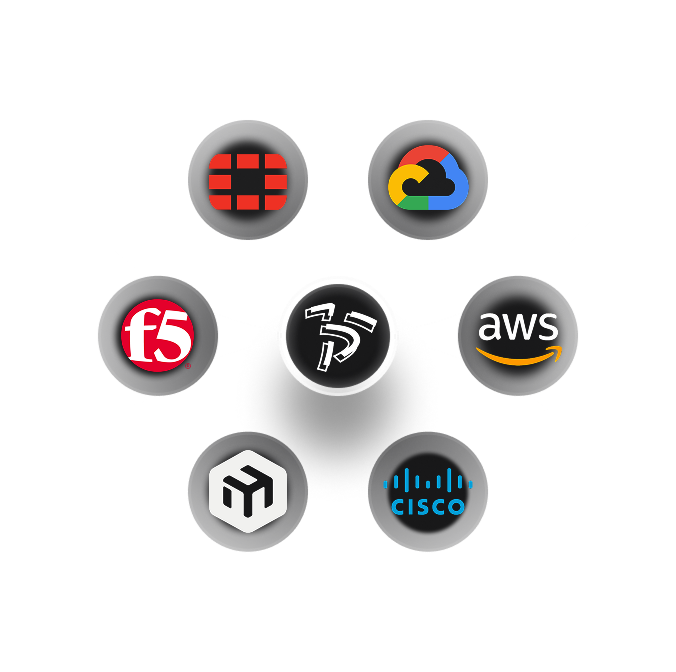
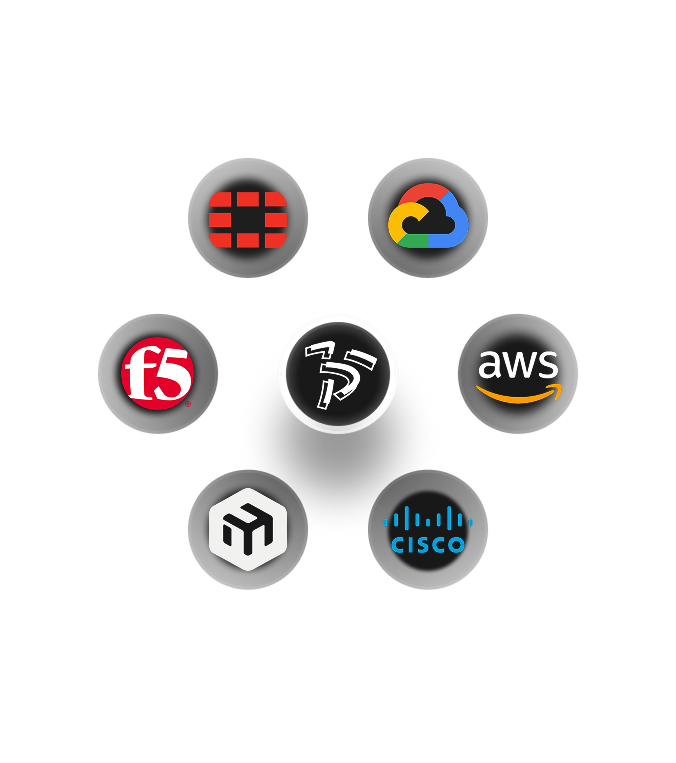
Update

diff --git a/styles.css b/styles.css
@@ -171,9 +171,92 @@ img {
     border-radius: 10px;
 }
 
-/* Cards Section */
+/* Cards Section - Optimized */
 .cards-section {
-    padding: 60px 0;
+    padding: 80px 0;
+}
+
+.cards-grid {
+    display: grid;
+    grid-template-columns: repeat(3, 1fr);
+    gap: 20px;
+}
+
+.card {
+    background-color: var(--bg-secondary);
+    border-radius: 9px;
+    overflow: hidden;
+    height: 100%;
+    display: flex;
+    flex-direction: column;
+}
+
+.card-large {
+    grid-row: span 2;
+}
+
+.card-wide {
+    grid-column: span 2;
+}
+
+/* Fix for card images */
+.card-image {
+    width: 100%;
+    height: 270px;
+    overflow: hidden;
+}
+
+/* Make sure images fill their containers properly */
+.card-image img {
+    width: 100%;
+    height: 100%;
+    object-fit: cover;
+}
+
+/* Fix for vendor logos container */
+.vendor-logos {
+    display: flex;
+    flex-wrap: wrap;
+    justify-content: center;
+    align-items: center;
+    gap: 20px;
+    padding: 20px;
+    height: 100%;
+    width: 100%;
+}
+
+/* Fix for individual vendor logo */
+.vendor-logo {
+    width: auto;
+    height: auto;
+    max-width: 100%;
+    max-height: 230px;
+    object-fit: contain;
+}
+
+.card-content {
+    padding: 20px;
+    flex-grow: 1;
+    display: flex;
+    flex-direction: column;
+}
+
+.card h3 {
+    font-size: 20px;
+    font-weight: 600;
+    margin-bottom: 15px;
+}
+
+.card p {
+    font-size: 14px;
+    line-height: 1.6;
+    font-weight: 400;
+    color: var(--text-primary);
+}
+
+/* Cards Section - Full Image Optimization */
+.cards-section {
+    padding: 80px 0;
 }
 
 .cards-grid {
@@ -202,30 +285,37 @@ img {
 .card-image {
     width: 100%;
     height: 270px;
+    position: relative;
     overflow: hidden;
     display: flex;
     justify-content: center;
     align-items: center;
+    background-color: var(--bg-tertiary);
 }
 
 .card-image img {
     width: 100%;
     height: 100%;
-    object-fit: cover;
+    object-fit: cover; 
+    object-position: center; 
 }
 
 .vendor-logos {
     display: flex;
     flex-wrap: wrap;
     justify-content: center;
-    gap: 20px;
-    padding: 20px;
+    align-items: center;
+    width: 100%;
+    height: 100%;
+    padding: 10px;
 }
 
 .vendor-logo {
-    width: 60px;
-    height: 60px;
+    width: 100%;
+    height: auto;
+    max-height: 250px;
     object-fit: contain;
+    object-position: center;
 }
 
 .card-content {
@@ -242,7 +332,8 @@ img {
 }
 
 .card p {
-    font-size: 12px;
+    font-size: 14px;
+    line-height: 1.6;
     font-weight: 400;
     color: var(--text-primary);
 }
@@ -441,19 +532,15 @@ img {
     object-fit: cover;
 }
 
-/* Contact Section */
+/* Contact Section - Optimized */
 .contact-section {
-    padding: 60px 0;
+    padding: 80px 0;
     background-color: var(--bg-primary);
-    display: flex;
-    justify-content: center;
-    align-items: center;
 }
-
 
 .contact-form-container {
     max-width: 1164px;
-    width: 100%; /* Tambahkan ini agar bisa menyesuaikan ukuran kontainer */
+    width: 100%;
     margin: 0 auto;
     border-radius: 27px;
     overflow: hidden;
@@ -461,13 +548,12 @@ img {
     box-shadow: 0 10px 30px rgba(0, 0, 0, 0.2);
 }
 
-
 .form-header {
     background: linear-gradient(90deg, #19191B 0%, #7A7A7B 50%, #19191B 100%);
     height: 64px;
     display: flex;
     align-items: center;
-    padding: 0 20px;
+    padding: 0 30px;
 }
 
 .window-controls {
@@ -497,7 +583,7 @@ img {
 }
 
 .form-content {
-    padding: 50px;
+    padding: 60px;
     display: flex;
     flex-direction: column;
     align-items: center;
@@ -507,6 +593,7 @@ img {
     font-size: 36px;
     font-weight: 600;
     margin-bottom: 20px;
+    text-align: center;
 }
 
 .form-description {
@@ -515,22 +602,20 @@ img {
     line-height: 1.5;
     margin-bottom: 40px;
     max-width: 485px;
+    text-align: center;
+    color: var(--text-tertiary);
 }
 
 #contactForm {
     width: 100%;
-    display: flex;
-    flex-direction: column;
-    align-items: center;
+    max-width: 496px;
+    margin: 0 auto;
 }
 
 .form-group {
     margin-bottom: 25px;
     width: 100%;
-    display: flex;
-    flex-direction: column;
-    
-    
+    position: relative;
 }
 
 .form-group label {
@@ -538,20 +623,28 @@ img {
     font-size: 18px;
     font-weight: 400;
     margin-bottom: 10px;
+    color: var(--text-secondary);
 }
 
 .form-group input,
 .form-group textarea {
     width: 100%;
-    max-width: 496px;
     padding: 15px;
     border-radius: 8px;
     background-color: var(--bg-form);
-    border: none;
+    border: 1px solid transparent;
     color: var(--text-primary);
     font-family: 'General Sans', sans-serif;
     font-size: 18px;
     font-weight: 500;
+    transition: border-color 0.3s ease, box-shadow 0.3s ease;
+}
+
+.form-group input:focus,
+.form-group textarea:focus {
+    outline: none;
+    border-color: var(--accent);
+    box-shadow: 0 0 0 2px rgba(58, 58, 73, 0.3);
 }
 
 .form-group textarea {
@@ -566,9 +659,8 @@ img {
 
 .submit-btn {
     width: 100%;
-    max-width: 496px;
-    height: 48px;
-    border-radius: 7px;
+    height: 54px;
+    border-radius: 8px;
     background-color: var(--accent);
     border: none;
     color: var(--text-primary);
@@ -576,11 +668,58 @@ img {
     font-size: 18px;
     font-weight: 600;
     cursor: pointer;
-    transition: background-color 0.3s ease;
+    transition: background-color 0.3s ease, transform 0.2s ease;
+    margin-top: 10px;
 }
 
 .submit-btn:hover {
     background-color: #4a4a5a;
+    transform: translateY(-2px);
+}
+
+.submit-btn:active {
+    transform: translateY(1px);
+}
+
+/* Responsive adjustments for contact section */
+@media (max-width: 768px) {
+    .form-content {
+        padding: 40px 25px;
+    }
+    
+    .form-title {
+        font-size: 30px;
+    }
+    
+    .form-description {
+        font-size: 16px;
+        margin-bottom: 30px;
+    }
+}
+
+@media (max-width: 576px) {
+    .form-content {
+        padding: 30px 20px;
+    }
+    
+    .form-title {
+        font-size: 26px;
+    }
+    
+    .form-group label {
+        font-size: 16px;
+    }
+    
+    .form-group input,
+    .form-group textarea {
+        font-size: 16px;
+        padding: 12px;
+    }
+    
+    .submit-btn {
+        height: 48px;
+        font-size: 16px;
+    }
 }
 
 /* Footer */
@@ -727,5 +866,62 @@ img {
     
     .form-content {
         padding: 30px 20px;
+    }
+}
+
+@media (max-width: 1200px) {
+    .cards-grid {
+        grid-template-columns: repeat(2, 1fr);
+    }
+    
+    .card-wide {
+        grid-column: span 2;
+    }
+    
+    .card-large {
+        grid-row: span 1;
+    }
+}
+
+@media (max-width: 992px) {
+    .card-wide {
+        grid-column: span 1;
+    }
+    
+    .cards-grid {
+        grid-template-columns: repeat(2, 1fr);
+        gap: 15px;
+    }
+}
+
+@media (max-width: 768px) {
+    .cards-grid {
+        grid-template-columns: 1fr;
+    }
+    
+    .card-image {
+        height: 300px; /* Slightly taller on mobile for better visibility */
+    }
+    
+    .vendor-logo {
+        max-height: 260px;
+    }
+}
+
+@media (max-width: 576px) {
+    .card-image {
+        height: 250px;
+    }
+    
+    .card-content {
+        padding: 15px;
+    }
+    
+    .card h3 {
+        font-size: 18px;
+    }
+    
+    .card p {
+        font-size: 13px;
     }
 }
